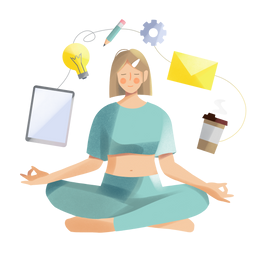
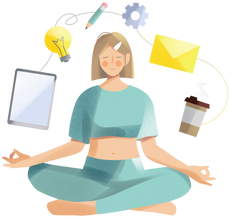
fix Styles

diff --git a/src/styles/components/HeroSection.scss b/src/styles/components/HeroSection.scss
@@ -1,14 +1,15 @@
 #Hero{
     background-color: $jaguarRose;
-    height: calc(100vh - 60px);
+    height: calc(100vh);
     display: flex;
     flex-direction: column;
     align-content: center;
     justify-content: center;
     text-align: center;
     gap: 32px;
+    padding-top: 60px;
     img{
-        width: 270px;
+        width: 235px;
         margin: 0 auto;
     }
     h1{

diff --git a/src/styles/base/layout.scss b/src/styles/base/layout.scss
@@ -9,10 +9,6 @@
     scroll-behavior: smooth;
 }
 
-.App{
-    padding-top: 60px;
-}
-
 h1{
     font-size: 30px;
 }
